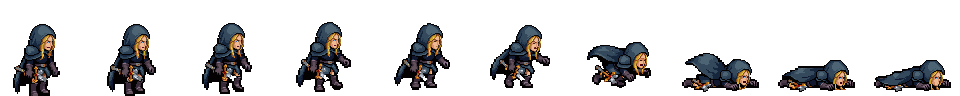
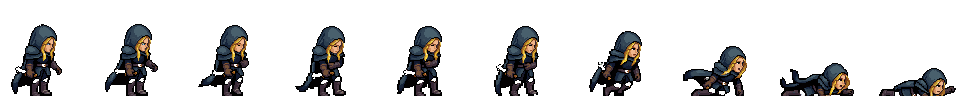
Storm's blade shatters when he dies (shards of steel and of each recovered piece; he collapses empty-handed). The beaten Frost Colossus comes apart a part at a time: legs, then arms, then body. Sword swings strike across the whole arc they draw and keep striking for a moment, so hits that look like 

diff --git a/DESIGN.md b/DESIGN.md
@@ -232,7 +232,8 @@ the slide.
   finds the crack.
 - *Core:* after its big slams the armor on its chest cracks open, showing a glowing core.
 - Beaten, it drops to its knees as cracks spread from the hole in its chest, light pouring
-  out of them and chunks breaking away; then it bursts into blocks of ice.
+  out of them and chunks breaking away; then it comes apart a part at a time: its legs burst
+  and its body drops to the ground, then its arms, then its body.
 
 ### Fight plan: the Ashen Drake
 A dragon of charred scales cracked with embers, with the fire piece driven through its wing.
@@ -310,9 +311,9 @@ rods; the shockline reaches it there. Touching it doesn't hurt; its spells do:
 - **Hatchlings**: the centipede's young, dropped into its second fight.
 
 ### Death
-When his last mask breaks, time slows and Storm crumples where he stands (falling if he's
-in the air), sinking to his knees and collapsing face down with his blade slipping from his
-hand. Then the screen fades and he wakes at the last shrine.
+When his last mask breaks, time slows and his blade bursts apart in his hand, shards of
+steel and of each piece he'd won back flying; Storm crumples where he stands (falling if he's
+in the air), sinking to his knees and collapsing face down. Then the screen fades and he wakes at the last shrine.
 
 ### Healing: flasks
 Storm carries flasks of a shrine's pale flame (3 to start). Drinking one (F or Q, or B on a
